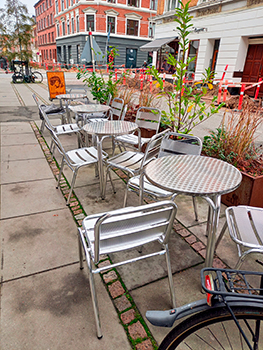
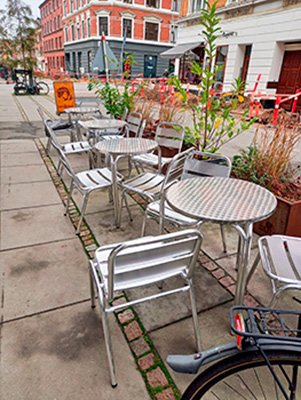
cafeerne responsive og dropdown i header

diff --git a/cafeerne.html b/cafeerne.html
@@ -39,9 +39,23 @@
             <nav id="navLaptop">
                 <a href="menu.html">menu</a>
                 <a href="cafeerne.html">caféerne</a>
-                <a href="kurser.html">kurser</a>
-                <a href="shop.html">shop</a>
-                <a href="booking.html">booking</a>
+                <div class="dropdown">   <!-- Dropdown boks -->
+                    <div class="dropbtn">Kurser</div>
+                    <div class="dropdown-content">
+                      <a href="#">Skræddersyet kaffekursus</a>
+                      <a href="#">Privat kaffakursus</a>
+                      <a href="#">Kursus i latteart</a>
+                      <a href="#">Baristakursus</a>
+                    </div>
+                </div>
+                <a href="shop.html">shop</a> 
+                <div class="dropdown">    <!-- Dropdown boks -->
+                    <div class="dropbtn">Booking</div>
+                    <div class="dropdown-content">
+                      <a href="#">Kaffescooter</a>
+                      <a href="#">Firmakaffe</a>
+                    </div>
+                </div>
             </nav>
     
             <!--MOBIL -->
@@ -54,8 +68,7 @@
     
         </header>
     
-
-<!-- TILFØJ HEADER HER -->    
+ 
 
 <!-- Vestergade -->
 <a id="vestergade-link"></a> <!-- Link der tilhører box på forsiden. Kat's kæreste did it -->
@@ -63,13 +76,15 @@
     <div>
         <h1>Vestergade</h1>
         <h3>Lad dig opsluge af kaffen, avisen og musikken. Den særlige rolige atmosfære gør kaffebaren særlig attraktiv efter en hektisk shoppetur eller en travl arbejdsdag. Her kan du nemt smutte forbi og tage en pause eller en to-go-kaffe</h3>
-        <img src="images/vestergade_caffee_højre.jpg" alt="Brammersgade">
         <h2>Adresse</h2>
-        <p>Vestergade 52</p>
-        <img src="images/vestergade_caffee_midt.jpg" alt="Brammersgade">        
+        <p>Vestergade 52</p>    
         <h2>Åbningstider</h2>
         <p>Mandag-Fredag: 07.30-18.00 <br> Lørdag: 09.00-17.00 <br> Søndag: 10.00-17.00<p>
-        <img src="images/vestergade_caffee_venstre.jpg" alt="Brammersgade">
+    </div>
+    <div class="vestergade_brammersgade_3img">
+        <div><img class="vest_bram_højre" src="images/vestergade_caffee_højre.jpg" alt="Vestergade"></div>
+        <div><img class="vest_bram_midt" src="images/vestergade_caffee_midt.jpg" alt="Vestergade"></div>
+        <div><img class="vest_bram_venstre" src="images/vestergade_caffee_venstre.jpg" alt="Vestergade"></div>
     </div>
 </section>
 
@@ -95,14 +110,16 @@
 <section class="vestergade_brammersgade">
     <div>
         <h1>Brammersgade</h1>
-        <h3>Street Coffee's første og mindste butik. Om sommeren er gaden drysset med skamler og bænke, så vores dejlige kunder kan nyde en plads i solen - om vinteren klemmer vi os sammen og hygger for fuld udblæsning. </h3>
-        <img src="images/bram_caffee_højre.jpg" alt="Brammersgade">
+        <h3>Street Coffee's første og mindste butik. Om sommeren er gaden drysset med skamler og bænke, så vores dejlige kunder kan nyde en plads i solen - om vinteren klemmer vi os sammen og hygger for fuld udblæsning.</h3>
         <h2>Adresse</h2>
         <p>Brammersgade 15</p>
-        <img src="images/bram_caffee_midt.jpg" alt="Brammersgade">        
         <h2>Åbningstider</h2>
         <p>Mandag-Fredag: 07.30-18.00 <br> Lørdag-Søndag: 08.00-17.00<p>
-        <img src="images/bram_venstre.jpg" alt="Brammersgade">
+    </div>
+    <div class="vestergade_brammersgade_3img">
+        <div><img class="vest_bram_højre" src="images/bram_caffee_højre.jpg" alt="Brammersgade"></div>
+        <div><img class="vest_bram_midt" src="images/bram_caffee_midt.jpg" alt="Brammersgade"></div>
+        <div><img class="vest_bram_venstre" src="images/bram_venstre.jpg" alt="Brammersgade"></div>
     </div>
 </section>
 

diff --git a/stylearticles.css b/stylearticles.css
@@ -86,19 +86,20 @@
 /*Vestergade og Brammersgade*/
 .vestergade_brammersgade{
     display: flex;
-    flex-direction: row;
+    flex-direction: column;
     background-color: white;
-    height: 750px;
+    height: 100%;
     width: 100%;
-    padding-left: 100px;
-    padding-right: 100px;
+    padding-left: 10%;
+    padding-right: 10%;
 }
 
 .vestergade_brammersgade div{
     background-color: white;
-    justify-content: space-around;
-    margin-left: 20px;
-    margin-top: 50px;
+    margin-left: 3%;
+    margin-top: 5%;
+    height: 100%;
+    width: 100%;
 }
 
 .vestergade_brammersgade h1{
@@ -133,14 +134,58 @@
     font-style: normal;
 }
 
-.vestergade_brammersgade img{
-    float: right;
-    height:400px; 
-    width:250px; 
-    margin-right: 80px; 
-    margin-top: 35px;
-    padding-bottom: 90px;
-} 
+@media only screen and (min-width: 767px) 
+{
+    .vestergade_brammersgade_3img
+    {
+        display: flex;
+        
+    }
+    
+    .vest_bram_højre{
+        margin-top: -50px;
+        display: block;
+        margin-left: auto;
+        margin-right: auto;
+    }
+    
+    .vest_bram_midt{
+        margin-top: -170px;
+    }
+    
+    .vest_bram_venstre{
+        margin-top: -250px;
+        margin-bottom: 20px;
+    }
+}
+
+
+
+@media only screen and (max-width: 767px) 
+{
+    .vestergade_brammersgade 
+    {
+        flex-direction: column;
+        height: 100%;
+    }
+
+    .vest_bram_venstre, .vest_bram_midt
+    {
+        display: none;
+    }
+
+
+    .bassin_graven
+    {
+        flex-direction: column-reverse;
+        width: 100%;
+    }
+
+    .bassin_graven div 
+    {
+        width: 80%;
+    }
+}
 
 /* Graven */
 .bassin_graven .graven_imgs{
@@ -217,10 +262,6 @@
     to {opacity: 1}
   }
   
-  /* On smaller screens, decrease text size */
-  @media only screen and (max-width: 300px) {
-    .prev, .next,.text {font-size: 11px}
-  }
 
 
 /* Graven*/

diff --git a/style.css b/style.css
@@ -75,7 +75,7 @@ header div
 
 #navLaptop a{
     text-decoration: none;
-    color:white;
+    color:white;    
 }
 
 #navLaptop a:hover 
@@ -86,6 +86,49 @@ header div
 #navMobile > a > img{
     width:100%; 
 }
+
+
+/* Dropdown */
+
+.dropbtn {
+    background-color: #764207;
+    color: white;
+    font-family:'Dosis', sans-serif;
+    text-transform: uppercase;
+    cursor: pointer;
+  }
+  
+  .dropdown {
+    position: relative;
+    display: inline-block;
+    font-family:'Dosis', sans-serif;
+    text-transform: uppercase;
+    width: auto;
+  }
+  
+  .dropdown-content {
+    display: none;
+    position: absolute;
+    background-color: #bb7700;
+    min-width: 160px;
+    box-shadow: 0px 8px 16px 0px rgba(0,0,0,0.2);
+    z-index: 1;
+}
+  
+  .dropdown-content a {    
+   
+    text-decoration: none;
+    display: block;
+    font-size: 20px;
+    padding: 12px 16px;
+}
+  
+  .dropdown-content a:hover {background-color: #cbb58f;}
+  
+  .dropdown:hover .dropdown-content {display: block;}
+  
+  .dropdown:hover .dropbtn { text-decoration: underline;}
+
 
 
 /*--------------------------------------------------------------------/*

diff --git a/index.html b/index.html
@@ -38,9 +38,23 @@
         <nav id="navLaptop">
             <a href="menu.html">menu</a>
             <a href="cafeerne.html">caféerne</a>
-            <a href="kurser.html">kurser</a>
-            <a href="shop.html">shop</a>
-            <a href="booking.html">booking</a>
+            <div class="dropdown">   <!-- Dropdown boks -->
+                <div class="dropbtn">Kurser</div>
+                <div class="dropdown-content">
+                  <a href="#">Skræddersyet kaffekursus</a>
+                  <a href="#">Privat kaffakursus</a>
+                  <a href="#">Kursus i latteart</a>
+                  <a href="#">Baristakursus</a>
+                </div>
+            </div>
+            <a href="shop.html">shop</a> 
+            <div class="dropdown">    <!-- Dropdown boks -->
+                <div class="dropbtn">Booking</div>
+                <div class="dropdown-content">
+                  <a href="#">Kaffescooter</a>
+                  <a href="#">Firmakaffe</a>
+                </div>
+            </div>
         </nav>
 
         <!--MOBIL -->

diff --git a/omos.html b/omos.html
@@ -37,9 +37,23 @@
         <nav id="navLaptop">
             <a href="menu.html">menu</a>
             <a href="cafeerne.html">caféerne</a>
-            <a href="kurser.html">kurser</a>
-            <a href="shop.html">shop</a>
-            <a href="booking.html">booking</a>
+            <div class="dropdown">   <!-- Dropdown boks -->
+                <div class="dropbtn">Kurser</div>
+                <div class="dropdown-content">
+                  <a href="#">Skræddersyet kaffekursus</a>
+                  <a href="#">Privat kaffakursus</a>
+                  <a href="#">Kursus i latteart</a>
+                  <a href="#">Baristakursus</a>
+                </div>
+            </div>
+            <a href="shop.html">shop</a> 
+            <div class="dropdown">    <!-- Dropdown boks -->
+                <div class="dropbtn">Booking</div>
+                <div class="dropdown-content">
+                  <a href="#">Kaffescooter</a>
+                  <a href="#">Firmakaffe</a>
+                </div>
+            </div>
         </nav>
 
         <!--MOBIL -->

diff --git a/menu.html b/menu.html
@@ -43,9 +43,23 @@
     <nav id="navLaptop">
         <a href="menu.html">menu</a>
         <a href="cafeerne.html">caféerne</a>
-        <a href="kurser.html">kurser</a>
-        <a href="shop.html">shop</a>
-        <a href="booking.html">booking</a>
+        <div class="dropdown">   <!-- Dropdown boks -->
+            <div class="dropbtn">Kurser</div>
+            <div class="dropdown-content">
+              <a href="#">Skræddersyet kaffekursus</a>
+              <a href="#">Privat kaffakursus</a>
+              <a href="#">Kursus i latteart</a>
+              <a href="#">Baristakursus</a>
+            </div>
+        </div>
+        <a href="shop.html">shop</a> 
+        <div class="dropdown">    <!-- Dropdown boks -->
+            <div class="dropbtn">Booking</div>
+            <div class="dropdown-content">
+              <a href="#">Kaffescooter</a>
+              <a href="#">Firmakaffe</a>
+            </div>
+        </div>
     </nav>
 
     <!--MOBIL -->
